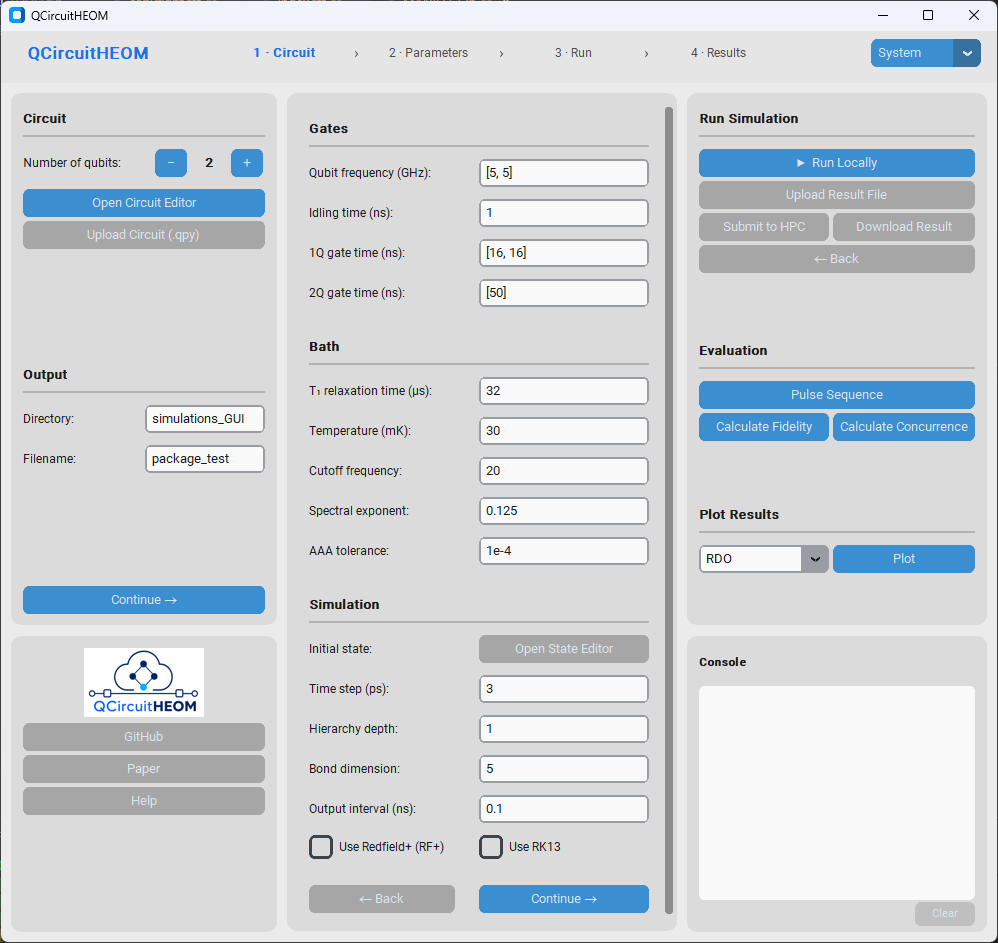
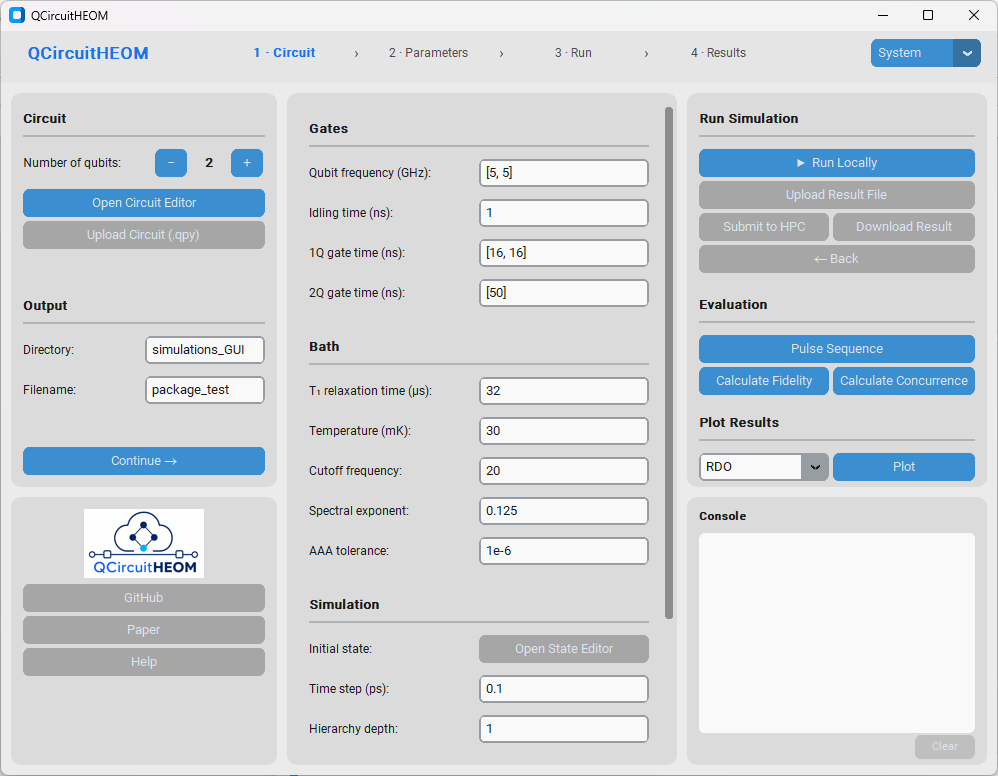
Update GUI defaults for AAA tolerance and time step
tol 1e-4 -> 1e-6, dtFB 3 ps -> 0.1 ps, matching the README example; refresh GUI screenshot.

diff --git a/qcheom/gui/frames/middle_frame.py b/qcheom/gui/frames/middle_frame.py
@@ -74,7 +74,7 @@ class MiddleFrame(ctk.CTkScrollableFrame):
         row += 1
 
         self.tol_entry = make_labeled_entry(
-            self, "AAA tolerance:", row, default="1e-4"
+            self, "AAA tolerance:", row, default="1e-6"
         )
         row += 1
 
@@ -102,7 +102,7 @@ class MiddleFrame(ctk.CTkScrollableFrame):
         row += 1
 
         self.dtFB_entry = make_labeled_entry(
-            self, "Time step (ps):", row, default="3"
+            self, "Time step (ps):", row, default="0.1"
         )
         row += 1
 
